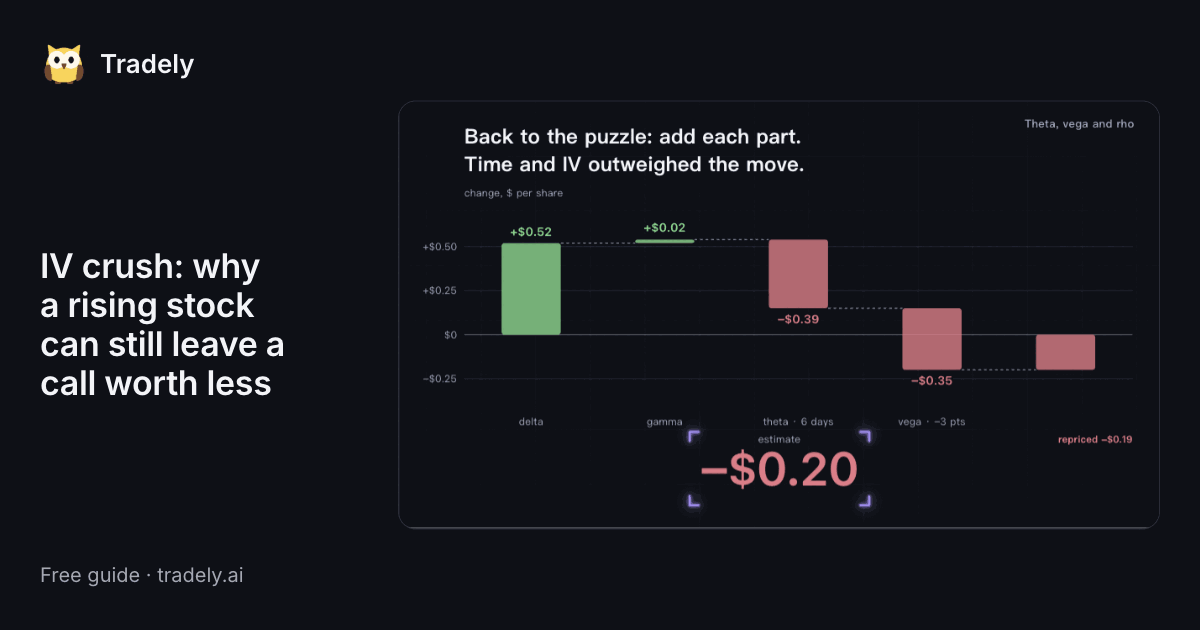
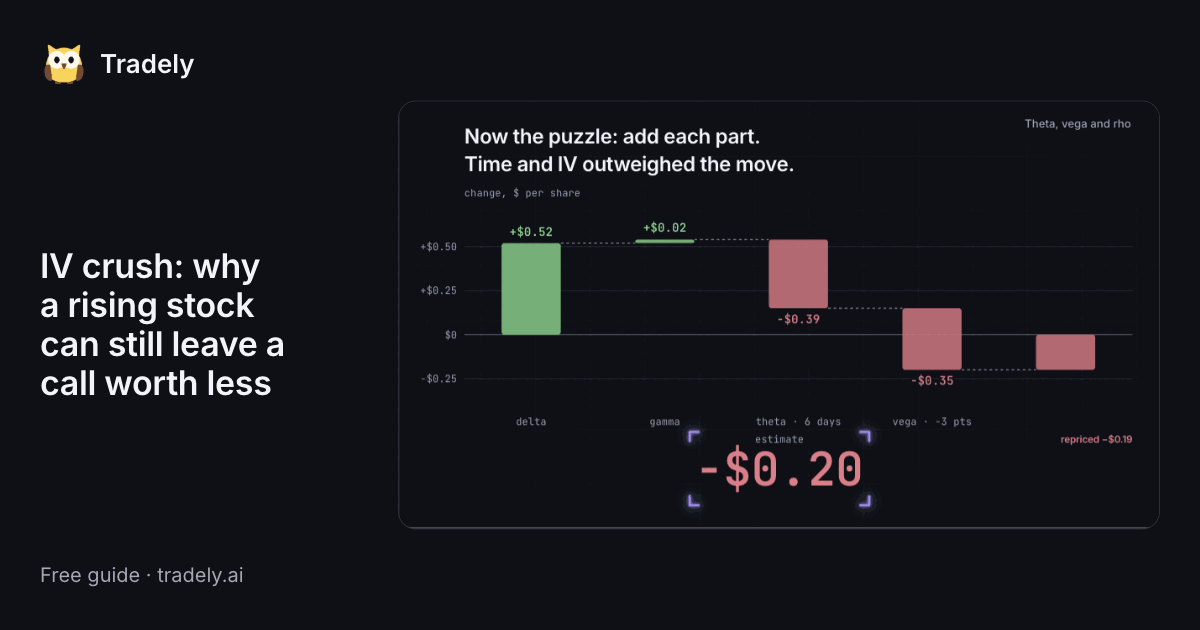
fix(learning): theta film's wide puzzle headline pair is 12 words
"Back to the puzzle: add each part." becomes "Now the puzzle: add each part." on the wide frame. The lesson's share card and the IV crush guide's card show it.

The two-line headline rule decided on 2026-11-15: a pair runs 12 words, or 14 where the first line stands alone 5 s and each line is at most 36 characters, and a pair over 8 words stays up 5.5 s. English only; no timing changes.

diff --git a/apps/web/src/features/learning/lessons/theta-vega-rho-film.tsx b/apps/web/src/features/learning/lessons/theta-vega-rho-film.tsx
@@ -199,7 +199,7 @@ const copy = {
 		`Compare: one vol point = ${price(VEGA, 3)}`,
 		`对比：一个波动率点 = ${price(VEGA, 3)}`,
 	],
-	sumHead: ["Back to the puzzle: add each part.", "回到开头：逐项相加。"],
+	sumHead: ["Now the puzzle: add each part.", "回到开头：逐项相加。"],
 	sumHeadShort: ["Back to the puzzle.", "回到开头：逐项相加。"],
 	sumAnswer: [
 		"Time and IV outweighed the move.",
